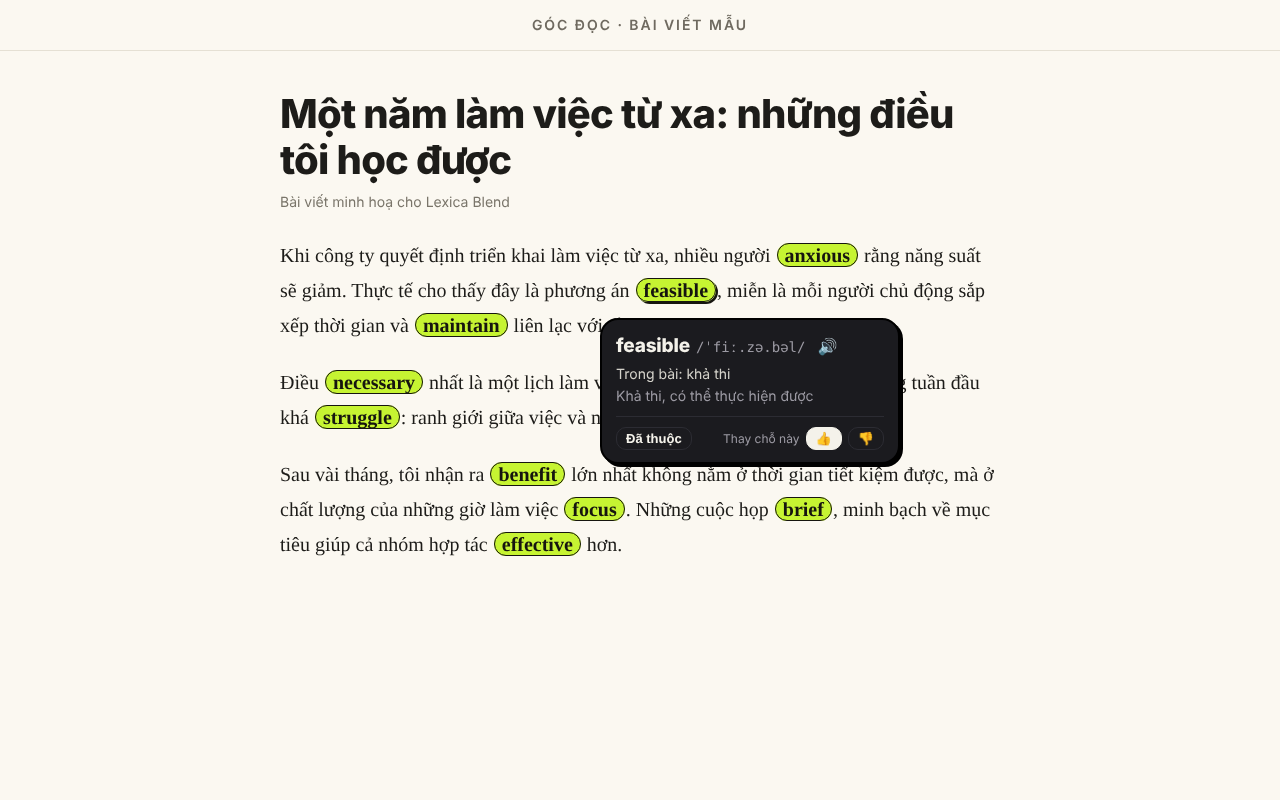
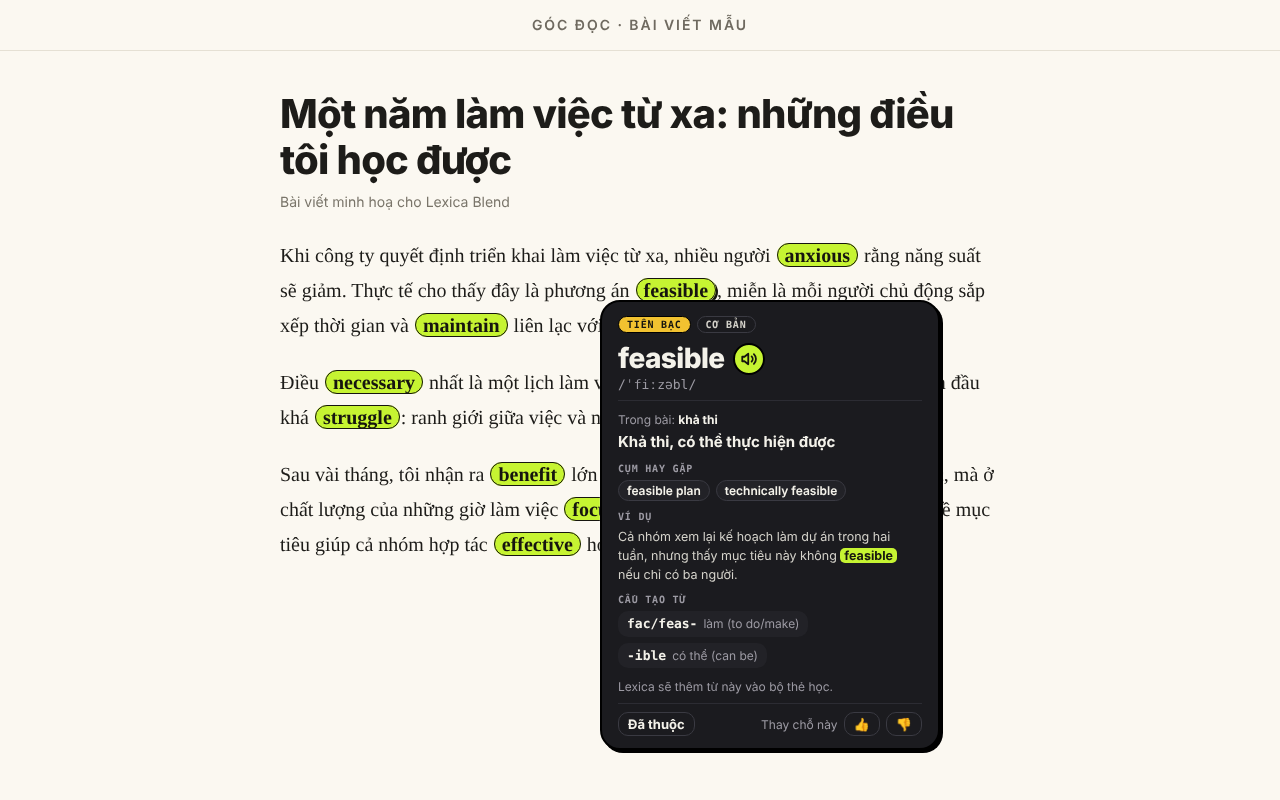
Lexica Blend 0.5.2: richer meaning card, replace by default
- Meaning card: topic and level stickers, the word in heavy type with a
  speaker button, the Vietnamese it replaced and its meaning, phrases it
  goes with (tap to hear), an example sentence with the word marked, and
  the word's parts. One module (app/lib/dial/tipCard.ts) feeds the
  extension, the store image and the app's Blend sheet.
- In the extension the card lives in a shadow root, so a site's CSS cannot
  restyle it; it flips above the word when there is no room below, scrolls
  inside on short screens, and closes with Esc.
- Words are replaced by default for everyone (highlight-only for new
  learners made Blend look broken); highlight stays one tap away.

Claude-Session: https://claude.ai/code/session_01Rbu4fXPhnbvST1BizP5zXE

Changed region(s): [[0.4688, 0.375, 0.75, 0.9688]]

diff --git a/apps/lexica/app/lib/dial/tipCard.ts b/apps/lexica/app/lib/dial/tipCard.ts
@@ -1,0 +1,129 @@
+/**
+ * The meaning card shown when a replaced word is tapped (Blend). One place for
+ * what it says and how it looks, used by the Chrome extension (built into
+ * content.js by extension/build.mjs, so this file has no imports and no
+ * runtime dependencies), the store images, and the app's sheet.
+ *
+ * Direction B (docs/LEXICA_DESIGN_B.md): a hard dark card with a flat shadow,
+ * a topic-coloured sticker, a word in heavy type, and short sections.
+ */
+
+export interface TipCard {
+    /** The word as written on the card, lower case ("feasible"). */
+    w: string;
+    ipa?: string;
+    /** Short Vietnamese meaning. */
+    hint: string;
+    /** Level label ("Cơ bản"). */
+    lv: string;
+    /** Topic label and its block colour. */
+    tl: string;
+    tc: string;
+    /** Phrases the word goes with. */
+    col: string[];
+    /** A sentence with the word in it. */
+    ex?: string;
+    /** Word parts: [part, meaning] (prefix, root, suffix). */
+    pt: [string, string][];
+}
+
+export const LEVEL_LABEL: Record<string, string> = { beginner: 'Cơ bản', intermediate: 'Trung cấp', advanced: 'Nâng cao', expert: 'Chuyên gia' };
+
+interface CardLike {
+    word: string;
+    ipa?: string;
+    translationHint: string;
+    level: string;
+    scenario?: string;
+    collocations?: string[];
+    surgeryModule?: Partial<Record<'prefix' | 'prefix2' | 'root' | 'root2' | 'suffix', { text: string; meaning: string } | undefined>>;
+}
+
+/** Only what the card shows, from a full content card. */
+export function tipFacts(card: CardLike, topic: { label: string; color: string }): TipCard {
+    const s = card.surgeryModule;
+    const parts = s ? (['prefix', 'prefix2', 'root', 'root2', 'suffix'] as const).flatMap((k) => (s[k] ? [[s[k]!.text, s[k]!.meaning] as [string, string]] : [])) : [];
+    return {
+        w: card.word.toLowerCase(),
+        ipa: card.ipa || undefined,
+        hint: card.translationHint,
+        lv: LEVEL_LABEL[card.level] ?? '',
+        tl: topic.label,
+        tc: topic.color,
+        col: (card.collocations ?? []).slice(0, 3),
+        ex: card.scenario || undefined,
+        pt: parts.slice(0, 4),
+    };
+}
+
+export function esc(s: string): string {
+    return String(s).replace(/[&<>"']/g, (c) => ({ '&': '&amp;', '<': '&lt;', '>': '&gt;', '"': '&quot;', "'": '&#39;' })[c]!);
+}
+
+/** The example sentence as HTML, with the word (and endings: benefit, benefits) marked. */
+export function exampleHtml(ex: string, word: string): string {
+    const re = new RegExp(`\\b${word.replace(/[.*+?^${}()|[\]\\]/g, '\\$&')}[a-z]*`, 'gi');
+    let out = '';
+    let last = 0;
+    for (const m of ex.matchAll(re)) {
+        out += esc(ex.slice(last, m.index)) + `<mark>${esc(m[0])}</mark>`;
+        last = (m.index ?? 0) + m[0].length;
+    }
+    return out + esc(ex.slice(last));
+}
+
+const SPEAKER = '<svg viewBox="0 0 24 24" width="18" height="18" fill="none" stroke="currentColor" stroke-width="2.4" stroke-linecap="round" stroke-linejoin="round" aria-hidden="true"><path d="M11 5 6 9H3v6h3l5 4z"/><path d="M15.5 8.5a5 5 0 0 1 0 7"/><path d="M18.5 5.5a9 9 0 0 1 0 13"/></svg>';
+
+/**
+ * The card's HTML (inside a shadow root, with TIP_CSS). `en` is the word as
+ * replaced on the page, `vi` the Vietnamese it replaced, `note` the line about
+ * the review. Buttons: .say (word), .say-phrase (data-say), .known, .up, .down.
+ */
+export function tipHtml(a: { en: string; vi: string; card: Partial<TipCard>; note: string; actions?: boolean }): string {
+    const c = a.card;
+    const sec = (label: string, body: string) => `<section><h3>${label}</h3>${body}</section>`;
+    return `<div class="top">${c.tl ? `<span class="tag topic" style="background:${esc(c.tc ?? '#B9BDC6')}">${esc(c.tl)}</span>` : ''}${c.lv ? `<span class="tag">${esc(c.lv)}</span>` : ''}</div>
+<div class="word"><b>${esc(a.en)}</b><button class="say" title="Nghe phát âm" aria-label="Nghe phát âm">${SPEAKER}</button></div>
+${c.ipa ? `<div class="ipa">/${esc(c.ipa)}/</div>` : ''}
+<div class="mean"><span class="from">Trong bài: <i>${esc(a.vi)}</i></span>${c.hint ? `<p>${esc(c.hint)}</p>` : ''}</div>
+${c.col?.length ? sec('Cụm hay gặp', `<div class="chips">${c.col.map((p) => `<button class="chip say-phrase" data-say="${esc(p)}" title="Nghe">${esc(p)}</button>`).join('')}</div>`) : ''}
+${c.ex ? sec('Ví dụ', `<p class="ex">${exampleHtml(c.ex, c.w ?? a.en)}</p>`) : ''}
+${c.pt?.length ? sec('Cấu tạo từ', `<div class="parts">${c.pt.map(([t, m]) => `<span class="part"><b>${esc(t)}</b>${esc(m)}</span>`).join('')}</div>`) : ''}
+${a.note ? `<p class="note">${esc(a.note)}</p>` : ''}
+${a.actions === false ? '' : `<div class="acts"><button class="known">Đã thuộc</button><span class="sp"></span><span class="lab">Thay chỗ này</span><button class="up" title="Thay hay" aria-label="Thay hay">👍</button><button class="down" title="Thay sai chỗ" aria-label="Thay sai chỗ">👎</button></div>`}`;
+}
+
+/** Style of the card, for the shadow root: the page's own CSS cannot touch it. */
+export const TIP_CSS = `
+:host{all:initial}
+*{box-sizing:border-box}
+.card{width:340px;max-width:calc(100vw - 16px);max-height:calc(100vh - 16px);overflow-y:auto;background:#1B1B1F;color:#F4F2EA;border:2px solid #000;border-radius:20px;padding:14px 16px 12px;font:14px/1.45 system-ui,-apple-system,'Segoe UI',Roboto,sans-serif;box-shadow:3px 3px 0 #000,0 0 0 1px rgba(255,255,255,.14);text-align:left}
+.top{display:flex;gap:6px;flex-wrap:wrap}
+.tag{display:inline-block;white-space:nowrap;font:700 10px ui-monospace,SFMono-Regular,Menlo,monospace;letter-spacing:.08em;text-transform:uppercase;color:#D4D2CA;border:1.5px solid #3A3A42;border-radius:999px;padding:2px 8px}
+.tag.topic{color:#16150F;border-color:#000}
+.word{display:flex;align-items:center;gap:8px;margin-top:10px}
+.word b{font-size:28px;line-height:1.05;font-weight:800;letter-spacing:-.02em;text-transform:lowercase}
+.say{display:inline-flex;align-items:center;justify-content:center;width:32px;height:32px;padding:0;border-radius:999px;border:2px solid #000;background:#C6F432;color:#16150F;cursor:pointer;flex:none}
+.say:active{transform:translate(1px,1px)}
+.ipa{margin-top:2px;color:#9C9AA3;font:13px ui-monospace,SFMono-Regular,Menlo,monospace}
+.mean{margin-top:8px;padding-top:8px;border-top:1px solid #2C2C33}
+.from{color:#9C9AA3;font-size:12px}
+.from i{font-style:normal;color:#F4F2EA;font-weight:700}
+.mean p{margin:2px 0 0;font-size:15px;font-weight:700;color:#F4F2EA}
+section{margin-top:10px}
+h3{margin:0 0 6px;font:700 10px ui-monospace,SFMono-Regular,Menlo,monospace;letter-spacing:.08em;text-transform:uppercase;color:#9C9AA3;white-space:nowrap}
+.chips,.parts{display:flex;flex-wrap:wrap;gap:6px}
+.chip{border:1.5px solid #3A3A42;background:#222227;color:#F4F2EA;border-radius:999px;padding:2px 8px;font:600 12px system-ui,sans-serif;cursor:pointer;white-space:nowrap}
+.chip:hover{border-color:#C6F432}
+.ex{margin:0;color:#D4D2CA;font-size:12.5px;line-height:1.5}
+mark{background:#C6F432;color:#16150F;border-radius:5px;padding:0 4px;font-weight:700;text-transform:lowercase}
+.part{display:inline-flex;align-items:baseline;gap:6px;background:#222227;border-radius:10px;padding:4px 9px;color:#9C9AA3;font-size:12px;white-space:nowrap}
+.part b{color:#F4F2EA;font:700 13px ui-monospace,SFMono-Regular,Menlo,monospace}
+.note{margin:10px 0 0;color:#9C9AA3;font-size:12px}
+.acts{display:flex;align-items:center;gap:6px;margin-top:8px;padding-top:8px;border-top:1px solid #2C2C33;white-space:nowrap}
+.acts .sp{flex:1}
+.acts .lab{color:#9C9AA3;font-size:12px}
+.acts button{font:700 13px system-ui,sans-serif;color:#F4F2EA;background:none;border:1.5px solid #3A3A42;border-radius:10px;padding:3px 9px;cursor:pointer}
+.acts button.on{background:#F4F2EA;color:#101012;border-color:#F4F2EA}
+button:focus-visible{outline:2px solid #C6F432;outline-offset:2px}
+`;

diff --git a/apps/lexica/app/components/DialText.tsx b/apps/lexica/app/components/DialText.tsx
@@ -7,6 +7,9 @@ import { DIAL_RULES } from '../lib/dial/allRules';
 import { pickHits } from '../lib/dial/level';
 import { hitText, INTENSITIES, INTENSITY, MODE_LABEL, MODES, ruleKey, type DialIntensity, type DialMode } from '../lib/dial/prefs';
 import { VOCAB_DATABASE } from '../data/vocabCards';
+import { exampleHtml, tipFacts } from '../lib/dial/tipCard';
+import { TOPICS, topicOf } from '../lib/engagement/collection';
+import { TOPIC_BLOCK } from '../lib/brand';
 import { playText } from '../lib/audio/AudioService';
 import { useLexicaStore } from '../store/lexicaStore';
 import { dialRank } from '../lib/dial/review';
@@ -69,21 +72,55 @@ export function DialSheet({ hit, onClose, effect = 'none', onKnown, onVote }: { 
     const voted = vote?.hit === hit ? vote.v : null;
     const setVoted = (v: 'up' | 'down') => setVote({ hit, v });
     const card = CARDS.get(hit.cardId);
+    const topic = card ? topicOf(card) : null;
+    const facts = card && topic ? tipFacts(card, { label: TOPICS.find((t) => t.id === topic)!.label, color: TOPIC_BLOCK[topic] }) : null;
     const act = 'h-9 px-3 rounded-lg border text-sm flex items-center gap-1.5';
     return (
         <div className="fixed inset-x-0 bottom-0 z-40 p-4 max-w-2xl mx-auto" role="dialog" aria-label={`Nghĩa của ${hit.en}`}>
-            <div className="lx-hard rounded-[22px] bg-surface p-4">
+            <div className="lx-hard max-h-[82vh] overflow-y-auto rounded-[22px] bg-surface p-4">
                 <div className="flex items-start justify-between gap-3">
-                    <div>
+                    <div className="min-w-0">
+                        {facts && (
+                            <div className="mb-2 flex flex-wrap gap-1.5">
+                                <span className="lx-sticker whitespace-nowrap px-2 py-0.5 font-mono text-[10px] font-bold uppercase tracking-wider text-[var(--on-block)]" style={{ background: facts.tc }}>{facts.tl}</span>
+                                {facts.lv && <span className="lx-sticker whitespace-nowrap bg-surface px-2 py-0.5 font-mono text-[10px] font-bold uppercase tracking-wider text-ink-2">{facts.lv}</span>}
+                            </div>
+                        )}
                         <div className="flex items-center gap-2">
-                            <span className="font-display text-2xl font-extrabold">{hit.en}</span>
-                            {card?.ipa && <span className="text-sm font-mono text-muted">/{card.ipa}/</span>}
-                            <button onClick={() => void playText(hit.en, 'en')} aria-label="Nghe phát âm" className="p-1 text-accent"><Volume2 className="w-5 h-5" /></button>
+                            <span className="font-display text-3xl font-extrabold leading-none lowercase">{hit.en}</span>
+                            <button onClick={() => void playText(hit.en, 'en')} aria-label="Nghe phát âm" className="lx-hard lx-press flex h-9 w-9 shrink-0 items-center justify-center rounded-full bg-accent text-on-accent"><Volume2 className="w-5 h-5" /></button>
                         </div>
-                        <p className="text-sm text-ink-2 mt-1">Trong bài: <b className="text-ink">{hit.vi}</b></p>
-                        {card && <p className="text-sm text-muted mt-1">{card.translationHint}</p>}
-                        {effect === 'due' && <p className="text-xs text-accent mt-2">Từ này sẽ vào lượt ôn tới.</p>}
-                        {effect === 'queued' && <p className="text-xs text-accent mt-2">Từ này sẽ vào bộ thẻ học tiếp theo.</p>}
+                        {facts?.ipa && <p className="mt-1 font-mono text-sm text-muted">/{facts.ipa}/</p>}
+                        <p className="mt-3 text-xs text-muted">Trong bài: <b className="text-ink">{hit.vi}</b></p>
+                        {facts && <p className="text-base font-bold text-ink">{facts.hint}</p>}
+                        {facts && facts.col.length > 0 && (
+                            <div className="mt-3">
+                                <p className="mb-1.5 whitespace-nowrap font-mono text-[10px] font-bold uppercase tracking-wider text-muted">Cụm hay gặp</p>
+                                <div className="flex flex-wrap gap-1.5">
+                                    {facts.col.map((p) => (
+                                        <button key={p} onClick={() => void playText(p, 'en')} className="lx-soft whitespace-nowrap rounded-full bg-surface-2 px-2.5 py-0.5 text-xs font-semibold text-ink">{p}</button>
+                                    ))}
+                                </div>
+                            </div>
+                        )}
+                        {facts?.ex && (
+                            <div className="mt-3">
+                                <p className="mb-1.5 whitespace-nowrap font-mono text-[10px] font-bold uppercase tracking-wider text-muted">Ví dụ</p>
+                                <p data-prose className="text-sm leading-relaxed text-ink-2 [&_mark]:rounded-md [&_mark]:bg-accent [&_mark]:px-1 [&_mark]:font-bold [&_mark]:lowercase [&_mark]:text-on-accent" dangerouslySetInnerHTML={{ __html: exampleHtml(facts.ex, facts.w) }} />
+                            </div>
+                        )}
+                        {facts && facts.pt.length > 0 && (
+                            <div className="mt-3">
+                                <p className="mb-1.5 whitespace-nowrap font-mono text-[10px] font-bold uppercase tracking-wider text-muted">Cấu tạo từ</p>
+                                <div className="flex flex-wrap gap-1.5">
+                                    {facts.pt.map(([t, m]) => (
+                                        <span key={t} className="inline-flex items-baseline gap-1.5 whitespace-nowrap rounded-xl bg-surface-2 px-2.5 py-1 text-xs text-muted"><b className="font-mono text-ink">{t}</b>{m}</span>
+                                    ))}
+                                </div>
+                            </div>
+                        )}
+                        {effect === 'due' && <p className="text-xs text-accent mt-3">Từ này sẽ vào lượt ôn tới.</p>}
+                        {effect === 'queued' && <p className="text-xs text-accent mt-3">Từ này sẽ vào bộ thẻ học tiếp theo.</p>}
                     </div>
                     <button onClick={onClose} aria-label="Đóng" className="p-1 text-muted"><X className="w-5 h-5" /></button>
                 </div>

diff --git a/apps/lexica/extension/src/content.body.js b/apps/lexica/extension/src/content.body.js
@@ -101,34 +101,41 @@
         closeTip();
         const c = CARDS[s.dataset.card] || {};
         const id = s.dataset.card, key = ruleKey(id, s.dataset.vi);
+        // The card lives in a shadow root: the page's own CSS cannot restyle it.
         tip = document.createElement('div');
         tip.className = 'lx-tip';
-        tip.innerHTML = `<div><b></b><span class="ipa"></span><button class="say" title="Nghe">🔊</button></div><div class="vi"></div><div class="hint"></div><div class="note hint"></div>
-<div class="acts"><button class="known">Đã thuộc</button><span class="sp"></span><span class="hint">Thay chỗ này</span><button class="up" title="Thay hay">👍</button><button class="down" title="Thay sai chỗ">👎</button></div>`;
-        tip.querySelector('b').textContent = s.dataset.en;
-        tip.querySelector('.ipa').textContent = c.ipa ? `/${c.ipa}/` : '';
-        tip.querySelector('.vi').textContent = `Trong bài: ${s.dataset.vi}`;
-        tip.querySelector('.hint').textContent = c.hint || '';
-        tip.querySelector('.note').textContent = due[id] !== undefined ? 'Lexica sẽ đưa từ này vào lượt ôn tới.' : 'Lexica sẽ thêm từ này vào bộ thẻ học.';
+        const root = tip.attachShadow({ mode: 'open' });
+        const note = due[id] !== undefined ? 'Lexica sẽ đưa từ này vào lượt ôn tới.' : 'Lexica sẽ thêm từ này vào bộ thẻ học.';
+        root.innerHTML = `<style>${TIP_CSS}</style><div class="card">${tipHtml({ en: s.dataset.en, vi: s.dataset.vi, card: c, note })}</div>`;
+        const $ = (q) => root.querySelector(q);
         pendingTap = id;
-        tip.querySelector('.say').onclick = () => { const u = new SpeechSynthesisUtterance(s.dataset.en); u.lang = 'en-US'; u.rate = 0.9; speechSynthesis.speak(u); };
-        tip.querySelector('.known').onclick = () => {
+        const say = (text) => { speechSynthesis.cancel(); const u = new SpeechSynthesisUtterance(text); u.lang = 'en-US'; u.rate = 0.9; speechSynthesis.speak(u); };
+        $('.say').onclick = () => say(s.dataset.en);
+        root.querySelectorAll('.say-phrase').forEach((b) => { b.onclick = () => say(b.dataset.say); });
+        $('.known').onclick = () => {
             pendingTap = null; known[id] = Date.now();
             queue({ kind: 'known', cardId: id });
             chrome.storage.local.get({ knownLocal: {} }, ({ knownLocal }) => chrome.storage.local.set({ knownLocal: { ...knownLocal, [id]: Date.now() } }));
             removeWord(id); closeTip();
         };
-        tip.querySelector('.up').onclick = (ev) => { ev.target.classList.add('on'); queue({ kind: 'up', cardId: id, rule: key }); };
-        tip.querySelector('.down').onclick = () => {
+        $('.up').onclick = (ev) => { ev.target.classList.add('on'); queue({ kind: 'up', cardId: id, rule: key }); };
+        $('.down').onclick = () => {
             pendingTap = null; hiddenRules.add(key);
             queue({ kind: 'down', cardId: id, rule: key });
             removeWord(id, key); closeTip();
         };
-        const r = s.getBoundingClientRect();
-        tip.style.left = `${Math.max(8, Math.min(r.left, innerWidth - 316)) + scrollX}px`;
-        tip.style.top = `${r.bottom + scrollY + 6}px`;
+        // Below the word; above it when there is no room below.
+        tip.style.setProperty('left', '0px', 'important'); tip.style.setProperty('top', '0px', 'important');
         document.body.append(tip);
+        const r = s.getBoundingClientRect(), h = tip.offsetHeight;
+        let top = r.bottom + 6;
+        if (top + h > innerHeight - 8) top = r.top - h - 6 > 8 ? r.top - h - 6 : Math.max(8, innerHeight - h - 8);
+        // !important inline: the host's own rule resets every property with !important.
+        tip.style.setProperty('left', `${Math.max(8, Math.min(r.left, innerWidth - 348)) + scrollX}px`, 'important');
+        tip.style.setProperty('top', `${top + scrollY}px`, 'important');
     }, true);
+
+    document.addEventListener('keydown', (e) => { if (e.key === 'Escape') closeTip(); });
 
     // Pages read and words shown per day (7 days), for the popup's estimate (#161). Numbers only, on this device.
     function countPage() {

diff --git a/apps/lexica/__tests__/unit/tipCard.test.ts b/apps/lexica/__tests__/unit/tipCard.test.ts
@@ -1,0 +1,40 @@
+import { describe, expect, it } from 'vitest';
+import { VOCAB_DATABASE } from '../../app/data/vocabCards';
+import { exampleHtml, tipFacts, tipHtml } from '../../app/lib/dial/tipCard';
+
+const topic = { label: 'Ăn uống', color: '#FF8A4C' };
+const abundant = VOCAB_DATABASE.find((c) => c.id === 'v001')!;
+
+describe('Blend meaning card', () => {
+    it('keeps only what the card shows', () => {
+        const f = tipFacts(abundant, topic);
+        expect(f.w).toBe('abundant');
+        expect(f.lv).toBe('Cơ bản');
+        expect(f.col).toEqual(['abundant supply', 'an abundant harvest']);
+        expect(f.pt.map(([t]) => t)).toEqual(['ab-', 'und-', '-ant']);
+        expect(f.ex).toContain('ABUNDANT');
+    });
+
+    it('marks the word and its endings in the example, and escapes the rest', () => {
+        expect(exampleHtml('Cô ấy có nhiều BENEFITS <b>x</b>', 'benefit')).toBe('Cô ấy có nhiều <mark>BENEFITS</mark> &lt;b&gt;x&lt;/b&gt;');
+        expect(exampleHtml('Không có từ', 'abundant')).toBe('Không có từ');
+    });
+
+    it('builds the card with every section, and leaves out the ones a card does not have', () => {
+        const full = tipHtml({ en: 'abundant', vi: 'dồi dào', card: tipFacts(abundant, topic), note: 'Lexica sẽ thêm từ này vào bộ thẻ học.' });
+        for (const part of ['Ăn uống', 'Cơ bản', 'Trong bài', 'Cụm hay gặp', 'Ví dụ', 'Cấu tạo từ', 'Đã thuộc']) expect(full).toContain(part);
+        const bare = tipHtml({ en: 'x', vi: 'y', card: { hint: 'nghĩa' }, note: '' });
+        for (const part of ['Cụm hay gặp', 'Ví dụ', 'Cấu tạo từ']) expect(bare).not.toContain(part);
+    });
+
+    it('never lets card text become markup', () => {
+        const html = tipHtml({ en: '<img src=x onerror=1>', vi: '"><script>', card: { hint: '<u>x</u>', col: ['<i>'], pt: [['<s>', '<em>']] }, note: '<marquee>' });
+        for (const tag of ['<img', '<script', '<u>', '<s>', '<em>', '<marquee']) expect(html).not.toContain(tag);
+        expect(html).toContain('&lt;img src=x onerror=1&gt;');
+        expect(html).toContain('&quot;&gt;&lt;script&gt;');
+    });
+
+    it('every card with a rule has a meaning, so the card is never empty', () => {
+        for (const c of VOCAB_DATABASE) expect(tipFacts(c, topic).hint.length).toBeGreaterThan(0);
+    });
+});

diff --git a/apps/lexica/extension/src/content.css b/apps/lexica/extension/src/content.css
@@ -1,10 +1,4 @@
 .lx-dial{color:#16150F!important;background:#C6F432!important;border:1.5px solid #16150F!important;border-radius:999px!important;padding:0 .35em!important;margin:0 1px;cursor:pointer;font-weight:700!important;text-decoration:none!important;-webkit-box-decoration-break:clone;box-decoration-break:clone}
 .lx-dial.lx-due{box-shadow:2px 2px 0 #16150F!important}
 .lx-dial.lx-hl{color:inherit!important;background:none!important;border:0!important;border-radius:0!important;padding:0!important;margin:0;font-weight:inherit!important;box-shadow:none!important;text-decoration:underline dotted #8fb800 2px!important;text-underline-offset:3px}
-.lx-tip{position:absolute;z-index:2147483647;width:300px;box-sizing:border-box;background:#1B1B1F;color:#F4F2EA;border:2px solid #000;border-radius:18px;padding:12px 14px;font:14px/1.45 system-ui,-apple-system,'Segoe UI',sans-serif;box-shadow:3px 3px 0 #000}
-.lx-tip b{font-size:19px;font-weight:800;letter-spacing:-.01em}.lx-tip .ipa{color:#9C9AA3;font-family:ui-monospace,monospace;margin-left:6px}.lx-tip .vi{margin-top:4px;color:#D4D2CA}.lx-tip .hint{margin-top:2px;color:#9C9AA3}
-.lx-tip button{background:none;border:0;color:#C6F432;cursor:pointer;font-size:16px;margin-left:6px}
-.lx-tip .acts{display:flex;white-space:nowrap;align-items:center;gap:6px;margin-top:10px;padding-top:10px;border-top:1px solid #2C2C33}
-.lx-tip .acts .sp{flex:1}.lx-tip .acts .hint{margin:0;font-size:12px}
-.lx-tip .acts button{margin:0;font-size:13px;font-weight:700;color:#F4F2EA;border:1.5px solid #2C2C33;border-radius:10px;padding:3px 9px}
-.lx-tip .acts button.on{background:#F4F2EA;color:#101012;border-color:#F4F2EA}
+.lx-tip{all:initial!important;position:absolute!important;z-index:2147483647!important;display:block!important}

diff --git a/apps/lexica/app/lib/dial/prefs.ts b/apps/lexica/app/lib/dial/prefs.ts
@@ -29,11 +29,13 @@ export const MODE_LABEL: Record<DialMode, string> = {
 };
 export const MODES: DialMode[] = ['replace', 'highlight', 'both'];
 
-/** Below this many learned words, words are only highlighted at first (easier to start). */
-export const NEW_LEARNER_WORDS = 50;
-
-export function defaultMode(learnedWords: number): DialMode {
-    return learnedWords < NEW_LEARNER_WORDS ? 'highlight' : 'replace';
+/**
+ * Words are replaced by default, for everyone (20/11/2026). Highlight-only was
+ * the default for learners under 50 words, but with it a new user saw almost
+ * nothing change and thought Blend did not work. It stays one tap away.
+ */
+export function defaultMode(_learnedWords?: number): DialMode {
+    return 'replace';
 }
 
 /** Old 0–100 % level → the nearest intensity. */

diff --git a/apps/lexica/__tests__/unit/dialPrefs.test.ts b/apps/lexica/__tests__/unit/dialPrefs.test.ts
@@ -12,11 +12,11 @@ describe('Blend prefs', () => {
         expect(intensityFromLevel(100)).toBe('heavy');
     });
 
-    it('N2: three ways to show a word, highlight first for new learners', () => {
+    it('N2: three ways to show a word, replacing by default', () => {
         expect(hitText('replace', 'khả thi', 'feasible')).toEqual({ text: 'feasible', hiddenEn: false });
         expect(hitText('highlight', 'khả thi', 'feasible')).toEqual({ text: 'khả thi', hiddenEn: true });
         expect(hitText('both', 'khả thi', 'feasible').text).toBe('khả thi (feasible)');
-        expect(defaultMode(10)).toBe('highlight');
+        expect(defaultMode(10)).toBe('replace');
         expect(defaultMode(80)).toBe('replace');
     });
 

diff --git a/docs/LEXICA_DIAL_MERID_PLAN.md b/docs/LEXICA_DIAL_MERID_PLAN.md
@@ -31,9 +31,9 @@
 - **Thay hẳn:** như hiện nay.
 - **Chỉ tô sáng:** giữ chữ tiếng Việt, gạch chân nhẹ. Chạm hoặc di chuột mới hiện từ tiếng Anh. Dành cho người mới.
 - **Cả hai:** chữ tiếng Việt, từ tiếng Anh trong ngoặc ngay sau.
-- **Mặc định:**
-  - người mới (dưới 50 từ đã học): chỉ tô sáng;
-  - còn lại: thay hẳn.
+- **Mặc định:** thay hẳn, cho mọi người (đổi ngày 20/11/2026).
+  - Trước đó người mới (dưới 50 từ đã học) mặc định chỉ tô sáng. Người dùng mới thấy gần như không có gì đổi và tưởng Blend không chạy.
+  - Chế độ tô sáng vẫn có, chọn trong popup.
 - **Tín hiệu "đã thấy":** chỉ tính ở chế độ thay hẳn và cả hai. Ở chế độ chỉ tô sáng, phải chạm mới tính.
 - **Mã:** `DialText.tsx` và `content.body.js` nhận thêm `mode`. Hàm dựng đoạn văn (`match.ts` → phần render) tách theo mode, có test.
 
